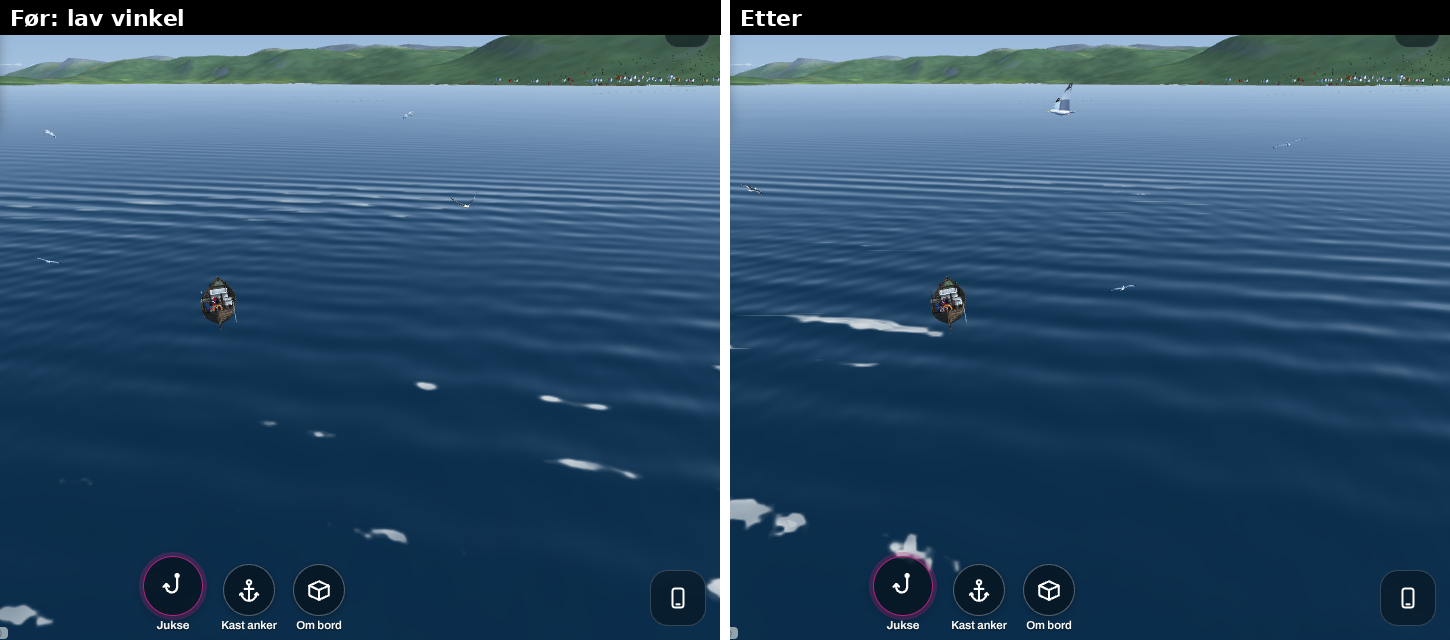
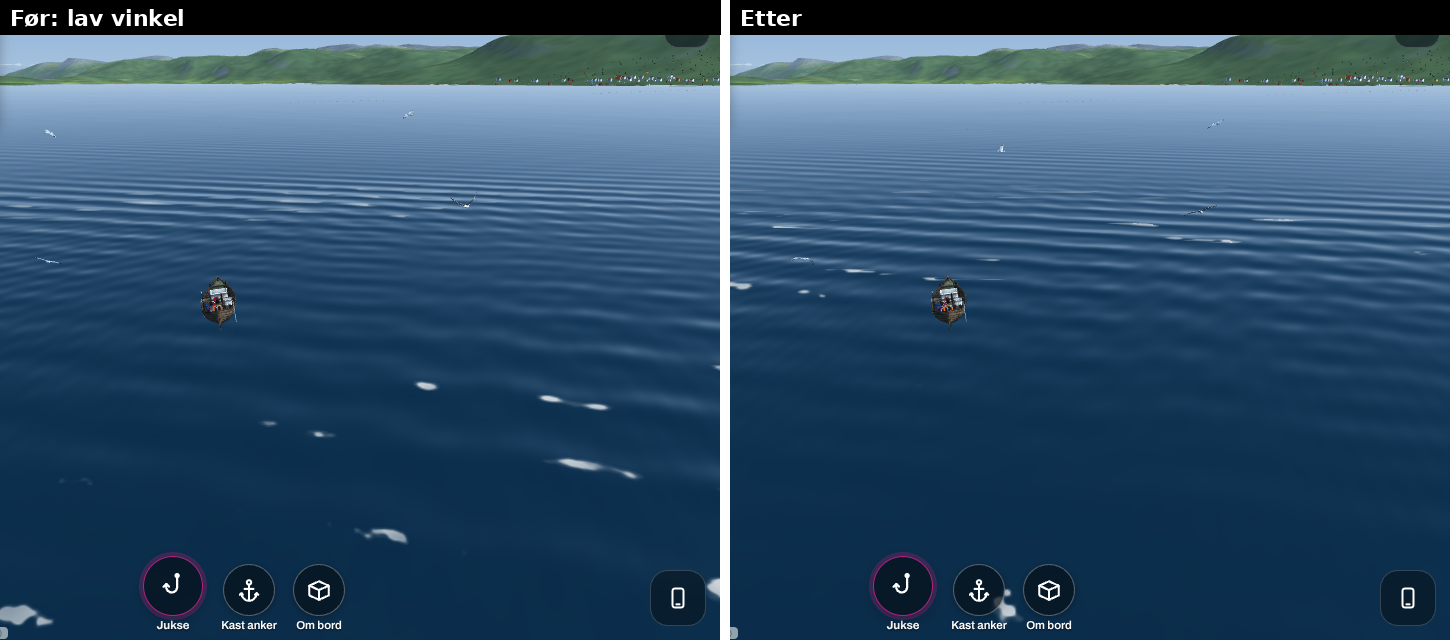
Skumtoppene velges enkeltvis og tilfeldig, og dekningen er kalibrert mot Monahan igjen
- capGate: mest et felt på 3 m langs vinden og 8 m på tvers, så enkeltkammer brekker
  og naboene sjelden sammen; flekker på 10-35 m med en firedel av vekten.
- G = 0,19 (andelen porten slipper til med den myke kanten) og capGe/capSg: porten åpner
  seg fra Beaufort 7 til storm. Det samme i FOAM.capAt.
- Sett rød: forrige commit ga sea3d FEIL på den tegnede dekningen (0,44 av Monahan ved
  21 m/s, G satt lik arealet). Nå: capAt 0,96-1,0, tegnet 0,63 og 0,99 (sea3d-skriptets
  skummåling); de andre 13 sjekkene i sea3d var grønne med dønningsendringen inne.
- Bildene i docs/pr/skum-091126/ på nytt; vaer-og-hav.md 5.20h.

Claude-Session: https://claude.ai/code/session_013BxXiCXz6vpGx7KaiszgXZ

diff --git a/src/js/view3d/01-shaders.js b/src/js/view3d/01-shaders.js
@@ -90,18 +90,24 @@
   // spread of fv through the normal quantile of W (as before, Monahan and O'Muircheartaigh 1980 is the share of white). WCAP.k: the share
   // of Monahan's cover that is the breaking crests themselves; the rest is the foam they leave, the foam map's tail (FOAM_FS, 14-sea.js).
   // FOAM.capAt in 14-sea.js is the same on the CPU (sea3d measures the share with it).
-  const WCAP = {j:0.14, s:0.14, c:0.06, g:1.2, th:[-0.00438, 0.3562, -0.00827], k:0.7, G:0.279};
+  const WCAP = {j:0.14, s:0.14, c:0.06, g:1.2, th:[-0.00438, 0.3562, -0.00827], k:0.7, G:0.1915};
   // capGate (09.11.2026, Jonas: «slike geometriske mønstre … ser helt jævlig ut»): the short waves are six regular trains, so every crest
-  // of a group broke alike and the whitecaps lay in straight rows of dashes, row on row, seen from above. Only where a random field of
-  // 3-35 m (drifting slowly) lets them do the crests break; it covers the share WCAP.G of the sea (0.28, measured over 870 x 930 m of
-  // the field), and the threshold is set for the share W/G inside it, so the cover is still Monahan's but in irregular patches.
+  // of a group broke alike and the whitecaps lay in straight rows of dashes, row on row, seen from above. Now a crest breaks only where
+  // a random field lets it: patches of 10-35 m (a quarter of its weight, so the whitecaps gather a little) and, most of it, a field of
+  // 3 m along the wind (less than the crests' spacing) by 8 m across, which picks single crests at random, so neighbours seldom break
+  // together. It covers 0.27 of the sea (measured over 820 x 860 m of the field); the threshold is set for the share W/G inside it, so
+  // the cover is still Monahan's. G is the share it lets through with its soft edge, the area to the power 1.26 (sea3d's share with
+  // FOAM.capAt was 0.71 of Monahan's with G set to the area, 8-25 m/s). From a near gale (W 3 %) to a storm (15 %) the gate opens up
+  // (capSg lowers its threshold by up to 0.5): there every crest breaks, and W/G would pass its limit; capGe is the share it lets
+  // through then, a quartic fitted to the measured area^1.26 (within 0.003).
   const wc5 = v => v.toFixed(5);
   // (capZ: the normal quantile of a share W <= 0.5, Abramowitz and Stegun 26.2.23, as the far pass's threshold has it too)
   const WCAPS = 'float capJ(float jxx,float jxz,float jtr,float jv){float jzz=jtr-jxx;return (jtr-jxx*jzz+jxz*jxz)*inversesqrt(jv);}' +
     'float capZ(float W){float zt=sqrt(-2.0*log(W));return zt-(2.515517+0.802853*zt+0.010328*zt*zt)/(1.0+1.432788*zt+0.189269*zt*zt+0.001308*zt*zt*zt);}' +
     'float capTh(float W){float zt=capZ(W);return ' + wc5(WCAP.th[0]) + '+' + wc5(WCAP.th[1]) + '*zt+(' + wc5(WCAP.th[2]) + ')*zt*zt;}' +
     'float capGrain(vec2 cq,float t,float mid,float fine){return ns(cq*vec2(0.3,0.36)+vec2(t*0.35,0.0))*0.5+mix(0.5,ns(cq*vec2(0.9,1.1)-vec2(t*0.5,t*0.2)),mid)*0.3+mix(0.5,ns(cq*vec2(2.8,3.4)+vec2(t*0.8,1.7)),fine)*0.2;}' +
-    'float capGate(vec2 cq,float t){float bn=ns(cq*vec2(0.02857,0.04545)+vec2(t*0.02+3.1,7.1))*0.4+ns(cq*vec2(0.0909,0.1111)+vec2(3.3-t*0.05,1.9))*0.2+ns(cq*vec2(0.35,0.125)+vec2(5.2+t*0.1,0.6))*0.4;return smoothstep(0.52,0.64,bn);}' +
+    'float capSg(float W){return smoothstep(0.03,0.15,W);}float capGe(float W){float s=capSg(W);return min(1.0,' + wc5(WCAP.G) + '+s*(0.8399+s*(2.3623+s*(-4.0139+s*1.6192))));}' +
+    'float capGate(vec2 cq,float t,float W){float bn=ns(cq*vec2(0.02857,0.04545)+vec2(t*0.02+3.1,7.1))*0.25+ns(cq*vec2(0.0909,0.1111)+vec2(3.3-t*0.05,1.9))*0.15+ns(cq*vec2(0.35,0.125)+vec2(5.2+t*0.1,0.6))*0.6;float o=0.5*capSg(W);return smoothstep(0.54-o,0.66-o,bn);}' +
     'float capFv(float jn,float js,float crest,float g){return jn*' + wc5(WCAP.j) + '+js*' + wc5(WCAP.s) + '+crest*' + wc5(WCAP.c) + '+(g-0.5)*' + wc5(WCAP.g) + ';}';
   // The local sea (03b-sea.js) from the sea-state textures, n (32 x 32 over the near terrain) and w (128 x 128 over the whole map): R and G hold
   // the root of the fetch for the 10 degree sectors either side of the wind (blended by uSea2.z and .w), B how much of the ocean swell gets in.
@@ -271,7 +277,7 @@
     'if(uWind>6.0){vec2 Pg=Mg+uFoamRect.xy+uNFD;vec2 Pbg=Mg+uFoamRect.xy;vec4 S=seaAt(Pg);float px=uFoamRect.w/uN;vec3 N=vec3(0.0,1.0,0.0);float y=0.0;float sa=1e-6;float lost=0.0;float Qw=qOf(S);float jxx=0.0;float jxz=0.0;float jtr=0.0;float jv=1e-8;float jsc=0.0;float jsv=1e-8;vec2 w2=uWindDir;vec2 wp=vec2(-w2.y,w2.x);' +
     [0, 1, 2, 3, 4, 5, 6, 7, 8, 9].map(i => SEA_WAVE(true, i).replace(/\bP\b/g, 'Pg')).join('') +
     '\nfloat crest=y*inversesqrt(sa);float dw2=smoothstep(0.45,1.73,fetchW(Pg,-w2,S.w));float Wc=clamp(3.84e-6*pow(max(uWind,0.3),3.41)*dw2,1e-5,0.5);' +
-    'vec2 cq=vec2(dot(Pbg,w2),dot(Pbg,wp));float fv=capFv(capJ(jxx,jxz,jtr,jv),jsc*inversesqrt(jsv),crest,capGrain(cq,uTime,1.0,0.0))-(1.0-capGate(cq,uTime))*1.5;float th=capTh(min(Wc*' + wc5(WCAP.k / WCAP.G) + ',0.5));ic=smoothstep(th-0.01,th+0.05,fv);}' +
+    'vec2 cq=vec2(dot(Pbg,w2),dot(Pbg,wp));float fv=capFv(capJ(jxx,jxz,jtr,jv),jsc*inversesqrt(jsv),crest,capGrain(cq,uTime,1.0,0.0))-(1.0-capGate(cq,uTime,Wc))*1.5;float th=capTh(min(Wc*' + wc5(WCAP.k) + '/capGe(Wc),0.5));ic=smoothstep(th-0.01,th+0.05,fv);}' +
     // new foam over what is left of the old: born now
     'if(iw>dw){aw=iw;bw=uFoamT.x;}if(ic>dc){ac=ic;bc=uFoamTc.x;}' +
     // none of the wake's foam on land (what the water carries onto a breakwater or a shore is gone)
@@ -337,13 +343,13 @@
     'float Wc=clamp(3.84e-6*pow(max(uWind,0.3),3.41)*dw,1e-5,0.5);vec2 Pb=P-uNFD;vec2 cq=vec2(dot(Pb,w),dot(Pb,wp));float mo=1.0-smoothstep(0.12,0.45,px);' +
     // (the far pass, beyond the near terrain, keeps the crest and the 3-8 m noise: it has only the four longest waves)
     '\n#ifdef FAR\nfloat RIM=0.12;float fn=ns(cq*vec2(0.3,0.12)+vec2(uTime*0.25,0.0))*0.6+ns(cq*vec2(0.7,0.3)-vec2(uTime*0.4,uTime*0.1))*0.4;' +
-    'float zt=capZ(min(Wc/' + wc5(WCAP.G) + ',0.5));float th=0.228+0.293*zt-0.016*zt*zt;float fv=crest*0.25+fn*0.45-(1.0-capGate(cq,uTime))*1.5;' +
+    'float zt=capZ(min(Wc/capGe(Wc),0.5));float th=0.228+0.293*zt-0.016*zt*zt;float fv=crest*0.25+fn*0.45-(1.0-capGate(cq,uTime,Wc))*1.5;' +
     // F3: where the waves break (WCAPS): the compression of the surface over the threshold for the breaking crests' share of the
     // cover (WCAP.k); the foam they leave is the map's (below). The grain's finest octave (0.3 m) fades out where a pixel passes 0.1 m,
     // the middle one (1.1 m) where it passes half a metre (else fwidth of fv grew so wide that the edge went grey 150 m off)
     // fe: how far inside the foam map (0 at its edge, 1 from a fifth of it in, 09.11.2026). Outside the map no tail is left, so the crests
     // there take all of Monahan's cover; inside, the share WCAP.k, the tail the rest. Before, the map's square showed from above (Jonas)
-    '\n#else\nfloat RIM=0.05;float fine=1.0-smoothstep(0.04,0.12,px);float mid=1.0-smoothstep(0.3,0.7,px);float fv=capFv(capJ(jxx,jxz,jtr,jv),jsc*inversesqrt(jsv),crest,capGrain(cq,uTime,mid,fine))-(1.0-capGate(cq,uTime))*1.5;float fe=0.0;if(uFoamOn>0.5){vec2 fe2=(Pb-uFoamRect.xy)*uFoamRect.z;fe2=min(fe2,1.0-fe2);fe=smoothstep(0.0,0.2,min(fe2.x,fe2.y));}float th=capTh(min(Wc*mix(1.0,' + wc5(WCAP.k) + ',fe)/' + wc5(WCAP.G) + ',0.5));\n#endif\n' +
+    '\n#else\nfloat RIM=0.05;float fine=1.0-smoothstep(0.04,0.12,px);float mid=1.0-smoothstep(0.3,0.7,px);float fv=capFv(capJ(jxx,jxz,jtr,jv),jsc*inversesqrt(jsv),crest,capGrain(cq,uTime,mid,fine))-(1.0-capGate(cq,uTime,Wc))*1.5;float fe=0.0;if(uFoamOn>0.5){vec2 fe2=(Pb-uFoamRect.xy)*uFoamRect.z;fe2=min(fe2,1.0-fe2);fe=smoothstep(0.0,0.2,min(fe2.x,fe2.y));}float th=capTh(min(Wc*mix(1.0,' + wc5(WCAP.k) + ',fe)/capGe(Wc),0.5));\n#endif\n' +
     // The edge is as wide as the pixel (fwidth), so it never steps or crawls, with a thin soft rim of older foam outside it; the mottle
     // inside fades to its mean before it gets smaller than a couple of pixels.
     'float aa=max(0.03,1.2*fwidth(fv));float core=smoothstep(th-aa,th+aa,fv);' +

diff --git a/src/js/view3d/14-sea.js b/src/js/view3d/14-sea.js
@@ -337,8 +337,8 @@
     const w = env.windDir || [0, 1], px = x - RO.x - NF.D[0], pz = z - RO.z - NF.D[1], a = px * w[0] + pz * w[1], b = px * -w[1] + pz * w[0];
     const g = NS3(a * 0.3 + t * 0.35, b * 0.36) * 0.5 + (0.5 + (NS3(a * 0.9 - t * 0.5, b * 1.1 - t * 0.2) - 0.5) * mid) * 0.3 + (0.5 + (NS3(a * 2.8 + t * 0.8, b * 3.4 + 1.7) - 0.5) * fine) * 0.2;
     // (the gate, capGate in 01-shaders.js: only where a random field of 3-35 m lets them do the crests break, the share WCAP.G of the sea)
-    const bn = NS3(a * 0.02857 + t * 0.02 + 3.1, b * 0.04545 + 7.1) * 0.4 + NS3(a * 0.0909 + 3.3 - t * 0.05, b * 0.1111 + 1.9) * 0.2 + NS3(a * 0.35 + 5.2 + t * 0.1, b * 0.125 + 0.6) * 0.4, gate = sstep(0.52, 0.64, bn);
-    const dws = sstep(0.45, 1.73, S[3]), Wc = clamp(3.84e-6 * Math.pow(Math.max(U, 0.3), 3.41) * dws, 1e-5, 0.5), W = clamp(Wc * kk / WCAP.G, 1e-5, 0.5);
+    const bn = NS3(a * 0.02857 + t * 0.02 + 3.1, b * 0.04545 + 7.1) * 0.25 + NS3(a * 0.0909 + 3.3 - t * 0.05, b * 0.1111 + 1.9) * 0.15 + NS3(a * 0.35 + 5.2 + t * 0.1, b * 0.125 + 0.6) * 0.6;
+    const dws = sstep(0.45, 1.73, S[3]), Wc = clamp(3.84e-6 * Math.pow(Math.max(U, 0.3), 3.41) * dws, 1e-5, 0.5), sg = sstep(0.03, 0.15, Wc), gate = sstep(0.54 - 0.5 * sg, 0.66 - 0.5 * sg, bn), Ge = Math.min(1, WCAP.G + sg * (0.8399 + sg * (2.3623 + sg * (-4.0139 + sg * 1.6192)))), W = clamp(Wc * kk / Ge, 1e-5, 0.5);
     let zt = Math.sqrt(-2 * Math.log(W)); zt -= (2.515517 + 0.802853 * zt + 0.010328 * zt * zt) / (1 + 1.432788 * zt + 0.189269 * zt * zt + 0.001308 * zt * zt * zt);
     const js = jsc / Math.sqrt(jsv);
     return {fv:jn * WCAP.j + js * WCAP.s + crest * WCAP.c + (g - 0.5) * WCAP.g - (1 - gate) * 1.5, gate, js, th:WCAP.th[0] + WCAP.th[1] * zt + WCAP.th[2] * zt * zt, jn, J, crest, g, Wc};

diff --git a/docs/systemer/vaer-og-hav.md b/docs/systemer/vaer-og-hav.md
@@ -319,7 +319,7 @@ Jonas sendte en video ovenfra ved Brensholmen (sjarken i 6,7 knop, 0,3 m sjø, 1
   - **Alt skum som ligger i vannet, ligger fast i verden:** skumtoppenes skum i kartet (b, a) flyttes med kjølvannets `uShiftG` og driver med vinden som før (`uShiftC`); det legges der skyggeren tegner texelen kartet leses fra (`Mg`, `Pg` i `FOAM_FS`), så det havner under kammen; sjøskyggeren leser hele kartet med `uFoamG`; kniplingen, sjørokket og vindstripene fra Beaufort 7 tegnes i verdens ramme (`Pw`, `P`). Bare kammen som brekker nå, sitter på bølgen (nærfeltet).
   - **De lange bølgene og dønningen i nærfeltet ute på sjøen** (`nfStep`): før sto de fast i verden, så hun møtte dønningen seks ganger for fort (mot en 150 m dønning stampet hun hvert 4. sekund i stedet for 8, og med den seilte hun fra den). Nå går de med båten som den korte sjøen fra 1,5 km fra land, og står fast i verden innenfor 0,4 km (`coastDist`, to ganger i sekundet), så brenningen aldri glir langs stranda.
   - **Ikke gjort:** at bølgene er like for alle spillerne. Bølgenes klokke starter når spilleren åpner spillet (`T0` i `00-head.js`), og retningen, lengden og fasen følger tilstanden der båten er (`updateWaves` holder fasen der hun er når en bølge dreier). Det krever en egen plan (backloggen).
-- **Mønstrene** (Jonas' skjermbilde 09.11.2026: «slike geometriske mønstre, det ser helt jævlig ut»): ovenfra lå skumtoppene som streker i rette rekker i bånd. Den korte sjøen er seks jevne bølgetog, så hver kam i en bølgegruppe brakk likt. Nå brekker kammene bare der et tilfeldig felt på 3–35 m slipper dem til (`capGate` i `01-shaders.js`, samme i `FOAM.capAt`); feltet dekker andelen `WCAP.G` = 0,28 av sjøen (målt over 870 × 930 m), og terskelen settes for W/G inni det, så dekningen fortsatt er Monahans. Den fineste delen (3 m langs vinden, mindre enn avstanden mellom kammene) velger enkeltkammer, så de aldri står i rekker. Gløden gjennom kammene (`sss`) tones bort når du ser ovenfra (`V.y` 0,55–0,9): den tegnet de korte kammene som lange, turkise linjer.
+- **Mønstrene** (Jonas' skjermbilde 09.11.2026: «slike geometriske mønstre, det ser helt jævlig ut»): ovenfra lå skumtoppene som streker i rette rekker i bånd. Den korte sjøen er seks jevne bølgetog, så hver kam i en bølgegruppe brakk likt. Nå brekker en kam bare der et tilfeldig felt slipper den til (`capGate` i `01-shaders.js`, det samme i `FOAM.capAt`): flekker på 10–35 m med en firedel av vekten, så skumtoppene samler seg litt, og mest et felt på 3 m langs vinden (mindre enn avstanden mellom kammene) og 8 m på tvers, som velger enkeltkammer tilfeldig, så naboene sjelden brekker sammen. Feltet dekker 0,27 av sjøen; terskelen settes for W/G inni det, der G = 0,19 er andelen det slipper til med den myke kanten (arealet opphøyd i 1,26: med G lik arealet ga `capAt` 0,71 av Monahan). Fra Beaufort 7 til storm (W 3–15 %) åpner feltet seg (`capSg`), fordi alle kammene brekker der og W/G ellers går over grensen; `capGe` er andelen da, et fjerdegradspolynom tilpasset målingen. Målt med skriptet fra `sea3d` (andelen etter `capAt` og den tegnede ved 21 og 30 m/s): 0,46 / 1,78 / 5,9 / 21,5 % ved 8 / 12 / 17 / 25 m/s (Monahan 0,46 / 1,84 / 6,03 / 22,45), tegnet 0,63 og 0,99 av Monahan. Første forsøk satte G lik arealet og ga 0,44 av Monahan tegnet ved 21 m/s (`sea3d` rød). Gløden gjennom kammene (`sss`) tones bort når du ser ovenfra (`V.y` 0,55–0,9): den tegnet de korte kammene som lange, turkise linjer.
 - **Testene:** SwiftShader tegner ett bilde på 2–13 s, så halene bygges ikke opp, og verken blinkingen eller firkanten kan ses i testbildene. `FOAM.tauC` (bare for tester) gir halene en lang levetid, så firkanten kan ses; `FOAM.log` teller nå også texlene med skumtoppenes skum (siste tall). Blinkingen er regnet, ikke sett: Jonas ser den på nettbrettet.
 
 ## 5.61 Skyene i ekte tid (#352, 19.10.2026)
